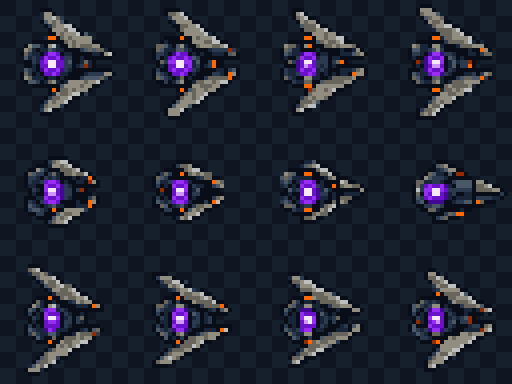
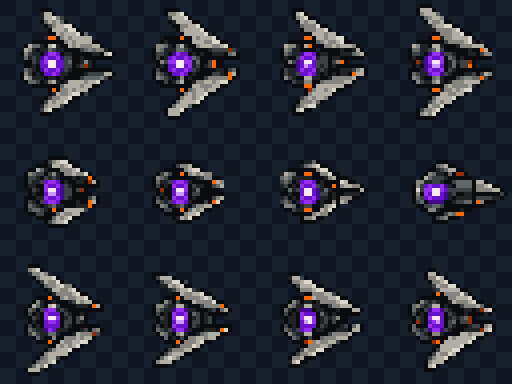
3섹터 몬스터를 정돈된 브러시드 스틸로 구분한다
첨부 승인 시트의 밝은 은색 면과 흑연 윤곽을 기존 Sector 01 atlas의 중립 금속색에만 결정적으로 매핑했다. 실루엣, 프레임, binary alpha, 역할색과 행동 예고색은 유지하고 Sector 03 전용 authoring/runtime 패키지만 교체했다.

Related: #944

Confidence: high

Scope-risk: narrow

Tested: enemy sprite validator, Stage 3-5 데스크톱 및 844x390 브라우저 확인, npm run check, npm run format:check, git diff --check 통과

Not-tested: 없음

diff --git a/assets/artwork/characters/sector-03-enemy-family-material-variant/source/build_sector03_variant.py b/assets/artwork/characters/sector-03-enemy-family-material-variant/source/build_sector03_variant.py
@@ -36,46 +36,47 @@ ATLAS_NAMES = (
     "swarm-motion.png",
 )
 
-# Only source RGB values in these fixed tables can change. The mappings are
-# intentionally shared across every frame of an atlas to prevent color jitter.
-COMMON_EXCHANGE_METAL = {
-    (9, 15, 26): (8, 14, 27),
-    (25, 37, 56): (31, 47, 72),
-    (99, 91, 83): (122, 118, 108),
-    (177, 166, 154): (188, 190, 192),
+# Only source RGB values in these fixed tables can change. The brighter neutral
+# ramps follow the user-approved brushed-steel sheet. They remain shared across
+# every frame of an atlas so motion never produces material color jitter.
+COMMON_BRUSHED_STEEL = {
+    (9, 15, 26): (10, 12, 15),
+    (25, 37, 56): (45, 49, 52),
+    (99, 91, 83): (133, 132, 126),
+    (177, 166, 154): (216, 212, 202),
 }
 
-EXCHANGE_DRONE_METAL = {
-    (5, 12, 24): (7, 14, 27),
-    (14, 30, 52): (24, 43, 68),
-    (38, 59, 86): (58, 80, 108),
-    (117, 111, 100): (148, 145, 134),
+BRUSHED_DRONE_METAL = {
+    (5, 12, 24): (10, 12, 15),
+    (14, 30, 52): (45, 49, 52),
+    (38, 59, 86): (104, 109, 110),
+    (117, 111, 100): (205, 201, 190),
 }
 
 PALETTE_MAPS = {
-    "pursuit-motion.png": COMMON_EXCHANGE_METAL,
-    "sentry-upright-aim.png": COMMON_EXCHANGE_METAL,
+    "pursuit-motion.png": COMMON_BRUSHED_STEEL,
+    "sentry-upright-aim.png": COMMON_BRUSHED_STEEL,
     "artillery-acquisition-motion.png": {
-        (5, 13, 23): (6, 13, 25),
-        (8, 20, 35): (14, 29, 48),
-        (14, 35, 57): (30, 53, 81),
-        (28, 57, 83): (54, 79, 110),
-        (82, 81, 75): (107, 109, 107),
-        (122, 116, 103): (153, 149, 136),
+        (5, 13, 23): (9, 11, 14),
+        (8, 20, 35): (31, 35, 38),
+        (14, 35, 57): (68, 73, 76),
+        (28, 57, 83): (116, 121, 122),
+        (82, 81, 75): (157, 156, 149),
+        (122, 116, 103): (218, 214, 204),
     },
     # Blue is the Shield role color, so only its neutral physical plate changes.
     "shield-body.png": {},
-    "shield-directions.png": {(117, 111, 100): (148, 145, 134)},
-    "patrol-motion-attack.png": EXCHANGE_DRONE_METAL,
-    "support-motion.png": EXCHANGE_DRONE_METAL,
+    "shield-directions.png": {(117, 111, 100): (205, 201, 190)},
+    "patrol-motion-attack.png": BRUSHED_DRONE_METAL,
+    "support-motion.png": BRUSHED_DRONE_METAL,
     "swarm-motion.png": {
-        (11, 13, 19): (8, 13, 24),
-        (21, 25, 37): (25, 37, 57),
-        (35, 41, 55): (44, 58, 80),
-        (55, 61, 72): (75, 88, 103),
-        (78, 74, 69): (104, 101, 93),
-        (116, 109, 100): (145, 141, 129),
-        (164, 158, 146): (189, 190, 190),
+        (11, 13, 19): (9, 11, 14),
+        (21, 25, 37): (31, 35, 38),
+        (35, 41, 55): (61, 66, 69),
+        (55, 61, 72): (98, 103, 104),
+        (78, 74, 69): (133, 132, 126),
+        (116, 109, 100): (177, 174, 165),
+        (164, 158, 146): (220, 216, 206),
     },
 }
 
@@ -205,9 +206,9 @@ def make_side_by_side() -> None:
     label_font = load_font(18, bold=True)
     sub_font = load_font(13)
     draw.text((32, 24), "SECTOR 03 · ENEMY MATERIAL VARIANT", font=title_font, fill=(232, 237, 244))
-    draw.text((32, 66), "Approved Sector 01 identity preserved · polished exchange metal only", font=sub_font, fill=(142, 158, 178))
+    draw.text((32, 66), "Approved Sector 01 identity preserved · clean brushed steel only", font=sub_font, fill=(162, 166, 170))
     draw.text((272, 92), "CURRENT APPROVED", font=header_font, fill=(177, 166, 154), anchor="mm")
-    draw.text((748, 92), "SECTOR 03 CANDIDATE", font=header_font, fill=(168, 190, 218), anchor="mm")
+    draw.text((748, 92), "SECTOR 03 APPROVED", font=header_font, fill=(208, 205, 197), anchor="mm")
 
     for index, (label, atlas_name, cell_index, output_size) in enumerate(ENEMIES):
         top = header + index * row_height
@@ -241,7 +242,7 @@ def make_runtime_size_preview() -> None:
     draw.rectangle((0, 0, width, 76), fill=(4, 10, 18, 228))
     draw.text((26, 18), "ACTUAL WORLD OUTPUT SIZE", font=title_font, fill=(237, 240, 245))
     draw.text((470, 54), "CURRENT", font=header_font, fill=(177, 166, 154), anchor="mm")
-    draw.text((780, 54), "SECTOR 03", font=header_font, fill=(168, 190, 218), anchor="mm")
+    draw.text((780, 54), "SECTOR 03", font=header_font, fill=(208, 205, 197), anchor="mm")
 
     row_height = 98
     for index, (label, atlas_name, cell_index, output_size) in enumerate(ENEMIES):

diff --git a/assets/artwork/characters/sector-03-enemy-family-material-variant/README.md b/assets/artwork/characters/sector-03-enemy-family-material-variant/README.md
@@ -5,20 +5,21 @@
 - Status: `USER APPROVED / RUNTIME INTEGRATED FOR SECTOR 03`
 - Target: the current Sector 01 approved seven-enemy Runtime family, adapted lightly for Sector 03
 - Source: repository Runtime atlases copied without resampling from `assets/runtime/characters/sector-01-enemies/`
-- Tool chain: OpenAI built-in ImageGen material-reference edits plus deterministic Pillow palette normalization
-- Source/license: repository-owned approved project assets; no external artwork
+- Tool chain: user-approved comparison sheet plus deterministic Pillow palette normalization
+- Source/license: user-provided project reference and repository-owned approved project assets; no external artwork
 
 ## Scope
 
-This is an identity-preserving image-to-image authoring pass. It keeps every existing silhouette, proportion, equipment shape, facing, pose, cell, atlas dimension, frame order, anchor intent, transparent padding and binary alpha. Neutral metal and auxiliary housing colors alone move slightly toward the Sector 03 Central Exchange reference: cool blue-silver, refined graphite, clean dark-navy panels, muted champagne hardware and only a trace of dust. The treatment is more maintained and polished than Sector 01 without turning the enemies into residential decoration. No new weapon, limb, attachment, effect, motion, gameplay timing or collider information is introduced.
+This is an identity-preserving image-to-image authoring pass. It keeps every existing silhouette, proportion, equipment shape, facing, pose, cell, atlas dimension, frame order, anchor intent, transparent padding and binary alpha. Neutral metal and auxiliary housing colors follow the current user-approved Sector 03 sheet: bright maintained silver faces, brushed-steel midtones, deep graphite seams and restrained warm-metal highlights. Existing source shading supplies the brushed texture without adding new one-pixel decoration. No new weapon, limb, attachment, effect, motion, gameplay timing or collider information is introduced.
 
 Role and behavior colors remain exact source RGB values: Shield blue; Support green; Swarm purple; Patrol red/orange; Artillery orange/red warning colors; Sentry and Pursuit sensors, exhaust and warning highlights. No sector marking is added because a new 1-pixel marking would compete with the role cues at the `32x32` cell scale.
 
 ## Deliverables
 
 - `source/approved-sector-01/`: untouched copies of the eight source atlases
-- `source/imagegen/`: generated material-treatment references; not atlas inputs
-- `source/generation-prompt.md`: ImageGen edit contract and reference roles
+- `source/user-reference/sector-03-brushed-steel-user-reference.png`: current approved material sheet; not an atlas input
+- `source/imagegen/`: superseded generated treatment references retained for provenance; not atlas inputs
+- `source/generation-prompt.md`: deterministic edit contract and reference roles
 - `source/build_sector03_variant.py`: deterministic palette-only normalization and preview builder
 - `export/`: eight transparent PNG atlases with the same dimensions as their sources
 - `preview/sector-01-vs-sector-03-comparison.png`: side-by-side representative comparison
@@ -39,7 +40,7 @@ Role and behavior colors remain exact source RGB values: Shield blue; Support gr
 
 ## Approval and non-scope
 
-The user approved this material variant for Sector 03 Runtime integration in GitHub Issue #908. The eight authoring exports are promoted byte-for-byte to `assets/runtime/characters/sector-03-enemies/`; Sector 01 and Sector 02 packages remain unchanged. This approval covers only the existing color and material treatment. It does not authorize new shapes, equipment, animation, timing, gameplay, collision or networking changes.
+The user replaced the earlier Sector 03 treatment with the attached brushed-steel sheet for Runtime integration in GitHub Issue #944. The eight authoring exports are promoted byte-for-byte to `assets/runtime/characters/sector-03-enemies/`; Sector 01, Sector 02 and Sector 04 packages remain unchanged. This approval covers only the color and material treatment. It does not authorize new shapes, equipment, animation, timing, gameplay, collision or networking changes.
 
 ## Validation
 
@@ -50,4 +51,4 @@ The user approved this material variant for Sector 03 Runtime integration in Git
 - Visual review: `PASS` for the authoring candidate comparison at enlarged nearest-neighbor scale and exact `56x56`, `60x60` and `18x18` world-output sizes on the Sector 03 Central Exchange reference.
 - Runtime export hash identity: `PASS` — all eight Runtime PNGs are byte-identical to the approved authoring exports.
 - Runtime validator: `PASS` — manifest v4 with eight atlases, seven enemies and 48 presentation states.
-- Browser gameplay: `PASS` — Sector 03 package selected in the actual game at desktop and mobile viewport sizes with no browser warnings or errors.
+- Browser gameplay: `PASS` — Stage `3-5` showed the silver Support treatment at desktop size and the silver Patrol treatment with preserved warning colors at `844x390`; no browser warnings or errors.

diff --git a/assets/runtime/characters/sector-03-enemies/README.md b/assets/runtime/characters/sector-03-enemies/README.md
@@ -2,11 +2,11 @@
 
 - Package ID: `sector-03-enemies`
 - Source: [`assets/artwork/characters/sector-03-enemy-family-material-variant/`](../../../artwork/characters/sector-03-enemy-family-material-variant/)
-- Tool chain: OpenAI built-in ImageGen material references plus deterministic Pillow palette normalization
-- Provenance: repository-owned approved Sector 01 assets; no external artwork
+- Tool chain: user-approved material sheet plus deterministic Pillow palette normalization
+- Provenance: user-provided project reference and repository-owned approved Sector 01 assets; no external artwork
 - Runtime selection: only enemies whose authored `sectorId` resolves to `sector-03`
 
-This package preserves the Sector 01 public enemy manifest contract: eight RGBA PNG atlases, seven enemy definitions, the existing `32x32` cells, state and frame order, timing, render sizes, anchors and transparent padding. Only neutral metal and auxiliary housing colors receive the restrained Sector 03 Central Exchange treatment: cool blue-silver, refined graphite, clean dark-navy panels, muted champagne hardware and a trace of dust. Shield blue, Support green, Swarm purple, Patrol red/orange, Artillery orange/red and the Sentry/Pursuit sensor, exhaust and warning colors remain unchanged.
+This package preserves the Sector 01 public enemy manifest contract: eight RGBA PNG atlases, seven enemy definitions, the existing `32x32` cells, state and frame order, timing, render sizes, anchors and transparent padding. Only neutral metal and auxiliary housing colors receive the approved Sector 03 treatment: bright maintained silver, brushed-steel midtones, deep graphite seams and restrained warm-metal highlights. Shield blue, Support green, Swarm purple, Patrol red/orange, Artillery orange/red and the Sentry/Pursuit sensor, exhaust and warning colors remain unchanged.
 
 The package does not change enemy types, gameplay, AI, collision, damage, networking, animation timing or other sectors. Missing sector packages or unsupported types continue to use the existing Sector 01 and built-in fallbacks.
 
@@ -15,4 +15,4 @@ The package does not change enemy types, gameplay, AI, collision, damage, networ
 - Authoring export to Runtime PNG hash identity: `PASS` for all eight atlases
 - Runtime manifest validator: `PASS` — `8 atlas, 7 enemies, 48 states`
 - Fixed selection: `PASS` — Sector 01 remains `sector-01-enemies`, Sector 02 remains `sector-02-enemies`, Sector 03 resolves to `sector-03-enemies`
-- Manual browser review: `PASS` — Sector 03 enemy rendered with preserved role colors at the default desktop viewport and `390x844` mobile viewport; no browser warnings or errors
+- Manual browser review: `PASS` — Stage `3-5` rendered the silver Support treatment at desktop size and the silver Patrol treatment with preserved warning colors at `844x390`; no browser warnings or errors

diff --git a/assets/artwork/characters/sector-03-enemy-family-material-variant/source/generation-prompt.md b/assets/artwork/characters/sector-03-enemy-family-material-variant/source/generation-prompt.md
@@ -1,13 +1,13 @@
-# Built-in ImageGen edit prompts
+# Sector 03 brushed-steel normalization reference
 
 ## Shared input roles
 
 - Image 1 (or Images 1-2 for Shield): edit target — approved Sector 01 transparent pixel atlas.
-- Final image: material and mood reference only — Sector 03 Central Exchange background reference.
-- Use case: `precise-object-edit`.
+- `source/user-reference/sector-03-brushed-steel-user-reference.png`: current user-approved material sheet.
+- Sector 03 Central Exchange background: contrast and actual-output backdrop reference only.
 
 ## Shared edit contract
 
-Change only neutral outer-shell secondary colors and neutral metal material toward the Sector 03 Central Exchange reference: cool blue-silver, refined graphite, clean dark-navy paneling, subtle polished highlights, extremely restrained champagne-brass hardware and only a trace of settled dust. Preserve the source sprite identity, exact silhouette, proportions, equipment, facing, pose, frame layout, frame count, spacing, transparent padding and hard pixel edge language. Preserve role and behavior colors exactly: Shield blue, Support green, Swarm purple, Patrol red/orange, Artillery orange/red warning colors, and Sentry/Pursuit sensor and exhaust highlights. Do not add weapons, equipment, limbs, symbols, micro-detail, glow, antialiasing, blur, semitransparent edge pixels, background, text or watermark.
+Change only neutral outer-shell secondary colors and neutral metal material toward the user-approved Sector 03 sheet: bright maintained silver faces, brushed-steel midtones, deep graphite seams and restrained warm-metal highlights. Preserve the source sprite identity, exact silhouette, proportions, equipment, facing, pose, frame layout, frame count, spacing, transparent padding and hard pixel edge language. Preserve role and behavior colors exactly: Shield blue, Support green, Swarm purple, Patrol red/orange, Artillery orange/red warning colors, and Sentry/Pursuit sensor and exhaust highlights. Do not add weapons, equipment, limbs, symbols, micro-detail, glow, antialiasing, blur, semitransparent edge pixels, background, text or watermark.
 
-The built-in outputs are retained only as material-treatment references. Final atlases are rebuilt deterministically from the approved source pixels so the atlas geometry and binary alpha cannot drift.
+The comparison sheet is retained only as material-treatment authority. Final atlases are rebuilt deterministically from the approved Sector 01 source pixels so atlas geometry, frame identity and binary alpha cannot drift.
